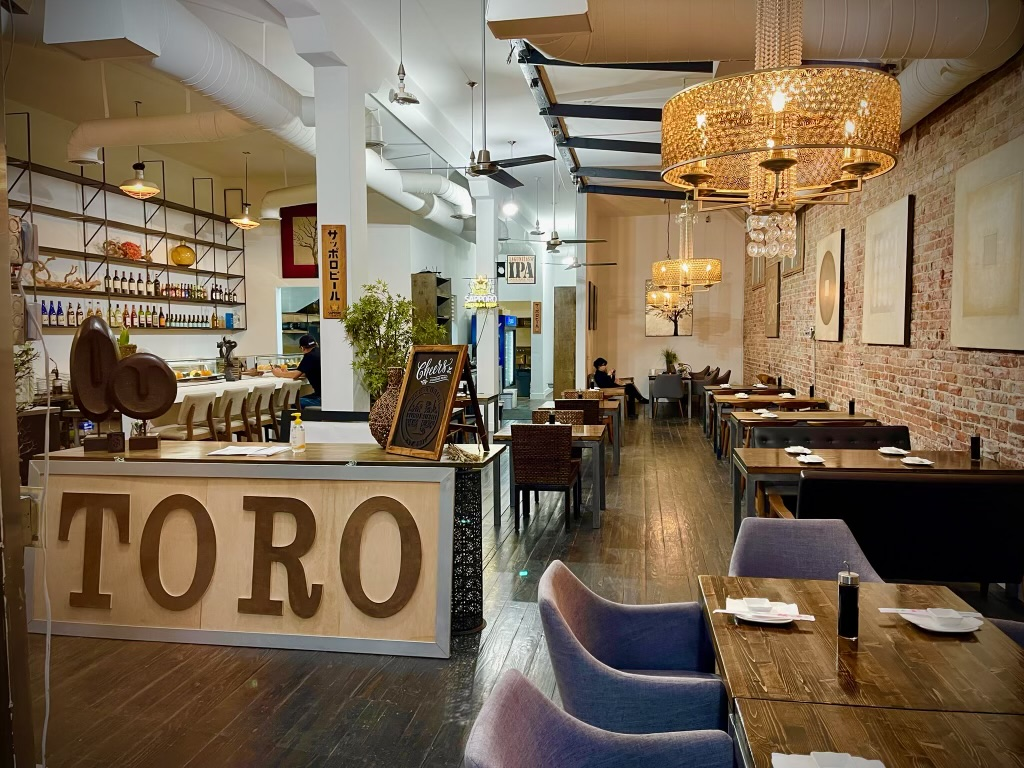
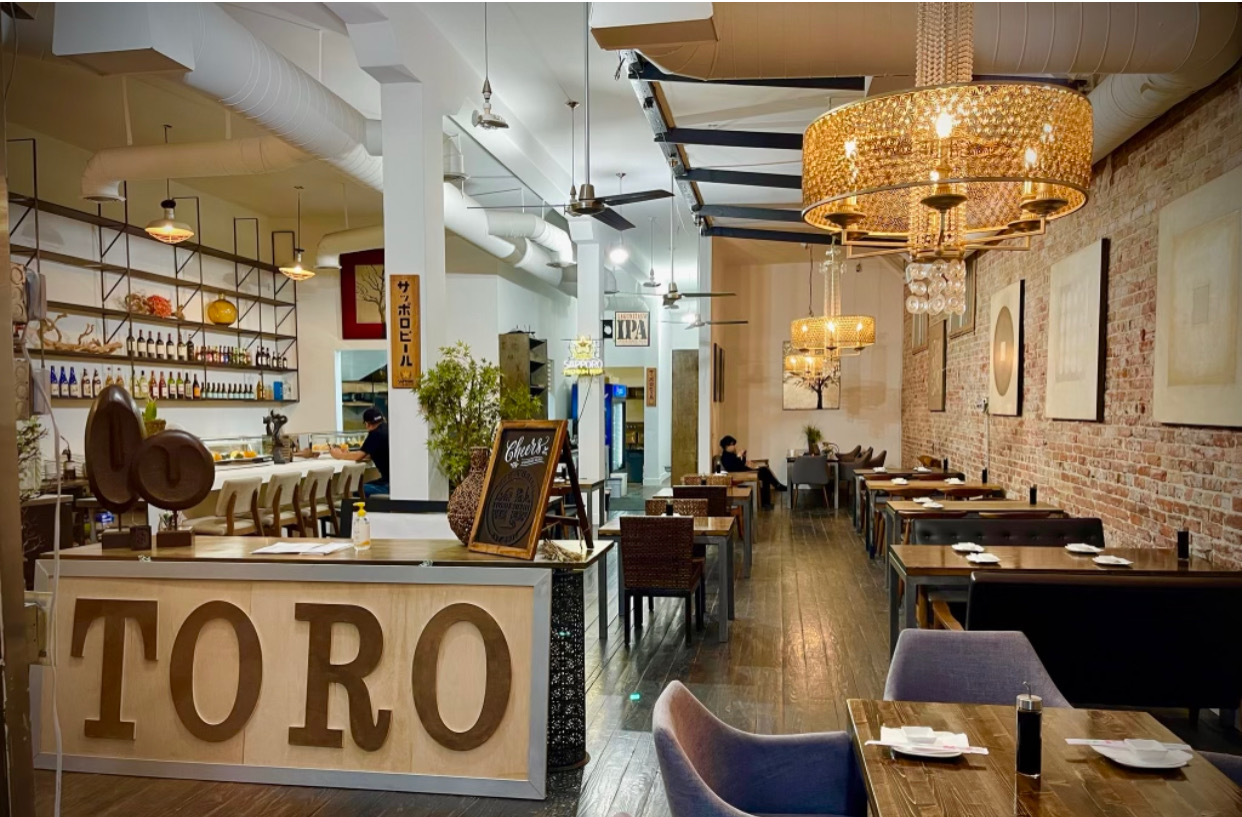
done

diff --git a/styles/PhotoLogoStrip.module.css b/styles/PhotoLogoStrip.module.css
@@ -1,10 +1,10 @@
 .container {
-    height: 50vh;
     max-width: 100%;
     margin: 0;
     padding: 0;
     display: flex;
     flex-direction: row;
+    background-color: black;
 }
 
 .logo {
@@ -34,11 +34,11 @@
 }
 
 .homePhoto {
-    height: 50vh;
-    width: 65vw;
+    height: 100%;
+    width: auto;
+    margin: auto;
     max-width: 100%;
-    object-fit: cover;
-    object-position: 100% 55%;
+    object-fit: contain;
 }
 
 .mobileLogo {
@@ -56,28 +56,17 @@
     }
 
     .homePhoto {
-        width: 100%;
-        object-fit: cover;
-        object-position: 0% 100%;
+        height: 100%;
+        width: auto;
+        margin: auto;
+        object-fit: contain;
+        position: relative;
+        background-color: black;
+        
     }
 
-    .header {
-        font-size: 90px;
-        text-align: center;
-        line-height: 1;
-        position: relative;
-        bottom: 165px;
-
+   
     
-    }
-    
-    .body {
-        font-size: 2.5vh;
-        text-align: center;
-        position: relative;
-        bottom: 170px;
-    
-    }
 
 
     .noMobile {

diff --git a/components/PhotoLogoStrip.js b/components/PhotoLogoStrip.js
@@ -6,16 +6,7 @@ const PhotoLogoStrip = () => {
     return (
         <>
         <div className={styles.container}>
-            <div className={styles.photoContainer}>
             <img className={styles.homePhoto} src='/assets/inside.jpeg' alt="home photo" />
-            </div>
-            <div className={`${styles.logoContainer} ${styles.noMobile}`}>
-            <div className={styles.logo}>
-                <div className={styles.header}>Toro Fusion Grill</div>
-                <div className={styles.body}>1818 L Street</div>
-                <div className={styles.body}>Bakersfield, CA</div>
-            </div>
-            </div>
         </div>
     </>
     )
